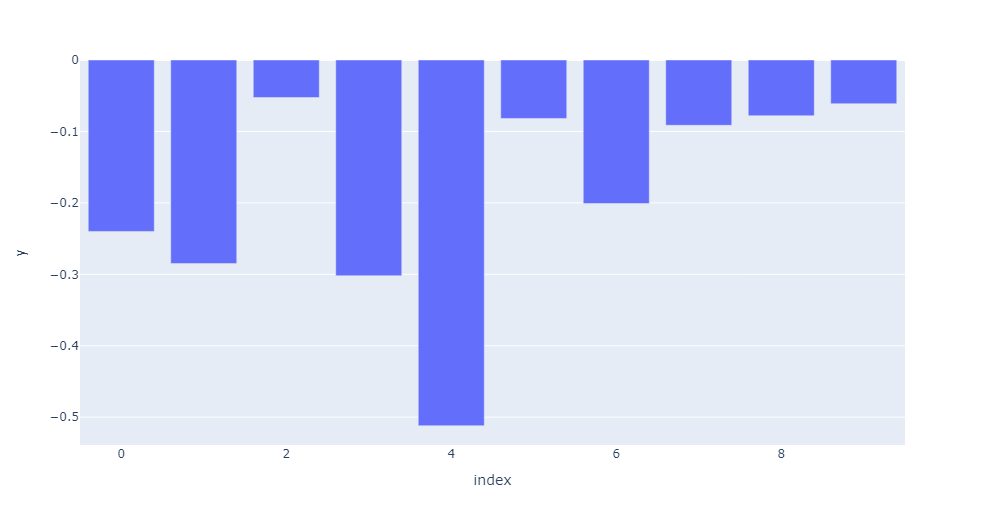
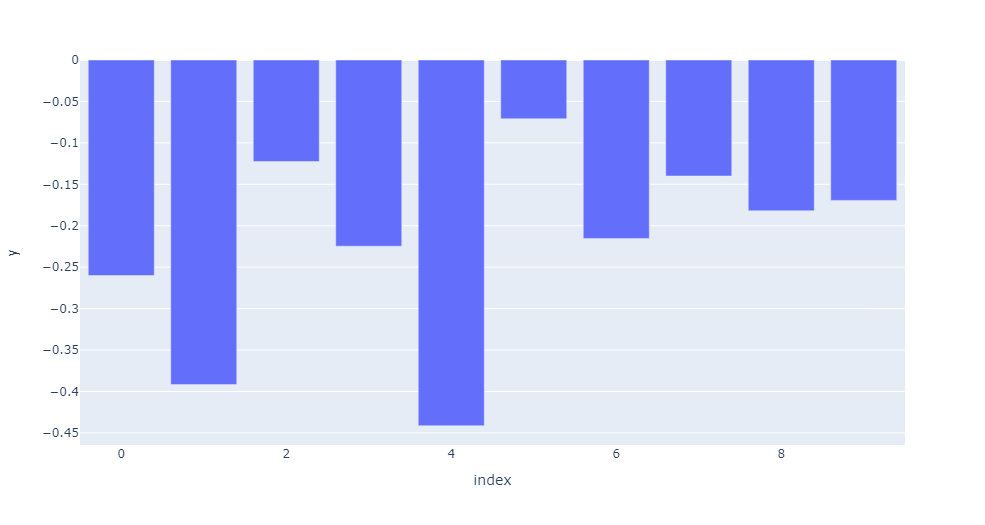
last commit

diff --git a/sentiment.py b/sentiment.py
@@ -1,5 +1,7 @@
 import os
-from google.cloud import language_v1
+#from google.cloud import language_v1
+from flair.models import TextClassifier
+from flair.data import Sentence
 from tqdm import tqdm
 import plotly.express as px
 import chardet
@@ -7,7 +9,8 @@ import json
 import re
 import time
 
-os.environ['GOOGLE_APPLICATION_CREDENTIALS'] = '../credential/japanese-ocr-337002-9b078adb6791.json'
+#os.environ['GOOGLE_APPLICATION_CREDENTIALS'] = './credential/japanese-ocr-337002-9b078adb6791.json'
+sia = TextClassifier.load('en-sentiment')
 
 def isEnglish(l):
     for d in l:
@@ -22,7 +25,7 @@ def countSentence(l):
     for d in l:
         count += len(d['article'])
     return count
-
+'''
 def analyze_sentiment(text_content):
     client = language_v1.LanguageServiceClient()
     type_ = language_v1.Document.Type.PLAIN_TEXT
@@ -31,9 +34,20 @@ def analyze_sentiment(text_content):
     response = client.analyze_sentiment(request = {'document': document})
     
     return response.document_sentiment.score
+'''
+def analyze_sentiment_(text_content):
+    sentence = Sentence(text_content)
+    sia.predict(sentence)
+    label = sentence.labels[0]
+    if "POSITIVE" in label.value:
+        return label.score
+    elif "NEGATIVE" in label.value:
+        return -label.score
+    else:
+        return 0
 
 #Read json file
-f = open('../news.json')
+f = open('./news.json')
 news = json.load(f)
 
 assert isEnglish(news)
@@ -44,11 +58,11 @@ scores = []
 start  = time.time()
 
 for text in news:
-    title_score  = analyze_sentiment(text["title"])
-    subhead_score = analyze_sentiment(text["subhead"])
+    title_score  = analyze_sentiment_(text["title"])
+    subhead_score = analyze_sentiment_(text["subhead"])
     para_score = []
     for para in text["article"]:
-        para_score.append(analyze_sentiment(para))
+        para_score.append(analyze_sentiment_(para))
         pbar.update(1)
     scores.append(0.2 * title_score + 0.1 * subhead_score + 0.7 * sum(para_score)/len(para_score))
 print("Program Execution Time: "+str(time.time()-start)+" seconds. "+str(count)+" paragraphs has been analyzed")

diff --git a/sentiment_google.py b/sentiment_google.py
@@ -1,7 +1,5 @@
 import os
-#from google.cloud import language_v1
-from flair.models import TextClassifier
-from flair.data import Sentence
+from google.cloud import language_v1
 from tqdm import tqdm
 import plotly.express as px
 import chardet
@@ -9,8 +7,7 @@ import json
 import re
 import time
 
-#os.environ['GOOGLE_APPLICATION_CREDENTIALS'] = '../credential/japanese-ocr-337002-9b078adb6791.json'
-sia = TextClassifier.load('en-sentiment')
+os.environ['GOOGLE_APPLICATION_CREDENTIALS'] = './credential/japanese-ocr-337002-9b078adb6791.json'
 
 def isEnglish(l):
     for d in l:
@@ -25,7 +22,7 @@ def countSentence(l):
     for d in l:
         count += len(d['article'])
     return count
-'''
+
 def analyze_sentiment(text_content):
     client = language_v1.LanguageServiceClient()
     type_ = language_v1.Document.Type.PLAIN_TEXT
@@ -34,20 +31,9 @@ def analyze_sentiment(text_content):
     response = client.analyze_sentiment(request = {'document': document})
     
     return response.document_sentiment.score
-'''
-def analyze_sentiment_(text_content):
-    sentence = Sentence(text_content)
-    sia.predict(sentence)
-    label = sentence.labels[0]
-    if "POSITIVE" in label.value:
-        return label.score
-    elif "NEGATIVE" in label.value:
-        return -label.score
-    else:
-        return 0
 
 #Read json file
-f = open('../news.json')
+f = open('./news.json')
 news = json.load(f)
 
 assert isEnglish(news)
@@ -58,11 +44,11 @@ scores = []
 start  = time.time()
 
 for text in news:
-    title_score  = analyze_sentiment_(text["title"])
-    subhead_score = analyze_sentiment_(text["subhead"])
+    title_score  = analyze_sentiment(text["title"])
+    subhead_score = analyze_sentiment(text["subhead"])
     para_score = []
     for para in text["article"]:
-        para_score.append(analyze_sentiment_(para))
+        para_score.append(analyze_sentiment(para))
         pbar.update(1)
     scores.append(0.2 * title_score + 0.1 * subhead_score + 0.7 * sum(para_score)/len(para_score))
 print("Program Execution Time: "+str(time.time()-start)+" seconds. "+str(count)+" paragraphs has been analyzed")

diff --git a/news_scraping.py b/news_scraping.py
@@ -58,7 +58,7 @@ for url in urls:
     data['article'] = article   
     news.append(data)
 
-with open('../news.json', 'w') as f:
+with open('./news.json', 'w') as f:
     json.dump(news, f, indent=4)
     
 
